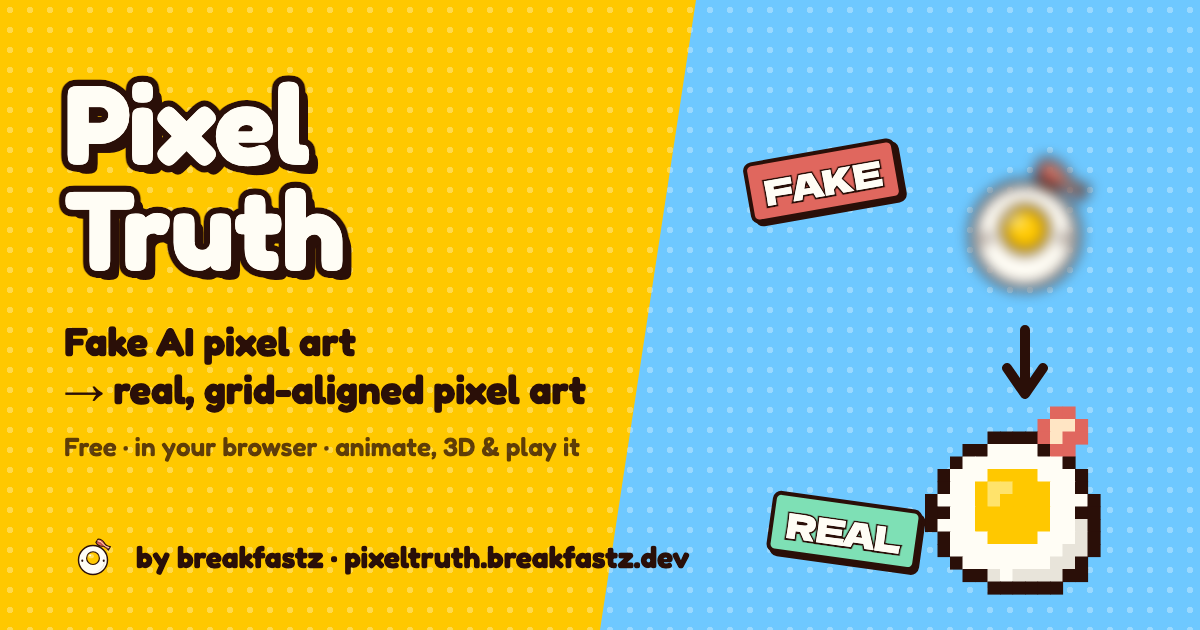
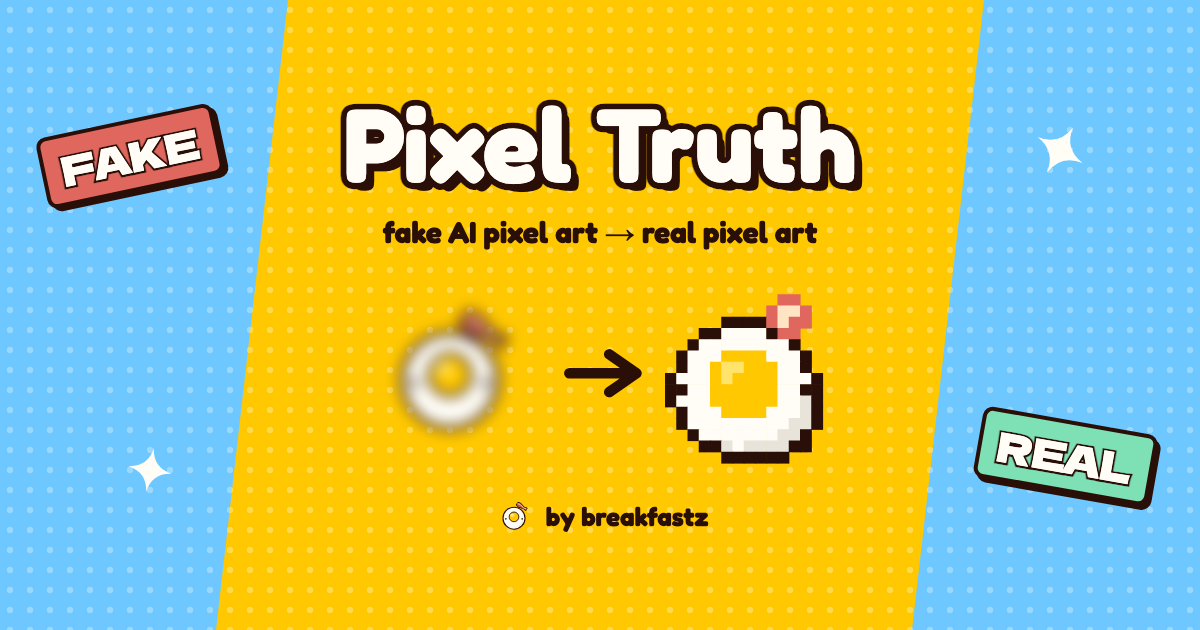
Center-safe social preview (survives square crops), bust OG cache

diff --git a/index.html b/index.html
@@ -13,7 +13,7 @@
     <meta property="og:title" content="Pixel Truth — fake AI pixel art → real pixel art" />
     <meta property="og:description" content="Fix AI pixel art, edit it, then make it move, pop out in 3D and play as it. Free, runs in your browser." />
     <meta property="og:url" content="https://pixeltruth.breakfastz.dev/" />
-    <meta property="og:image" content="https://pixeltruth.breakfastz.dev/og.png" />
+    <meta property="og:image" content="https://pixeltruth.breakfastz.dev/og.png?v=2" />
     <meta property="og:image:width" content="1200" />
     <meta property="og:image:height" content="630" />
     <meta property="og:image:alt" content="Pixel Truth: a blurry AI egg becomes crisp pixel art" />
